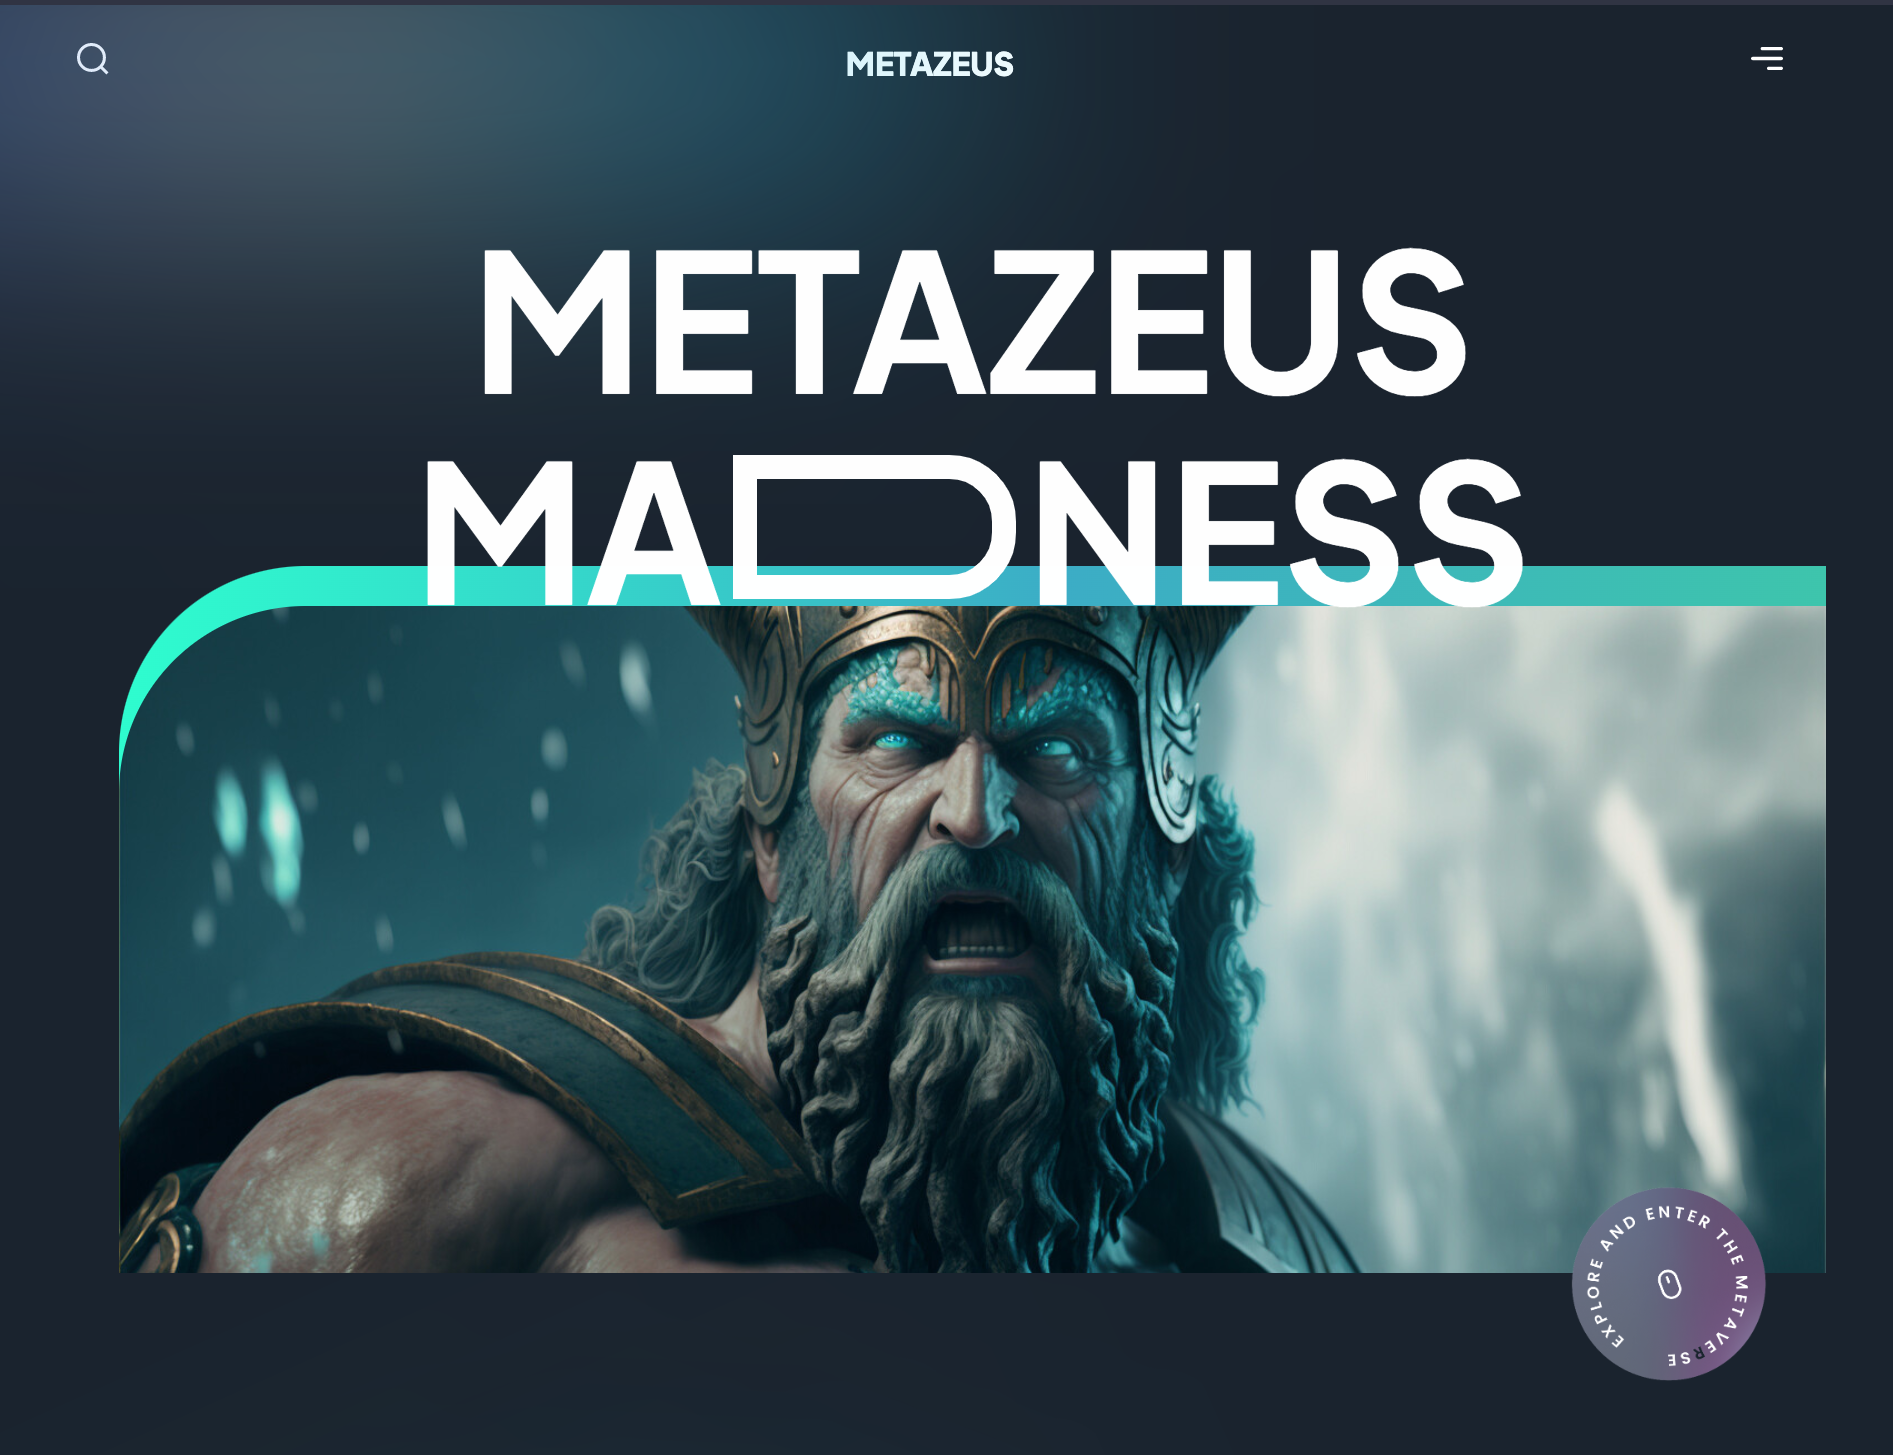
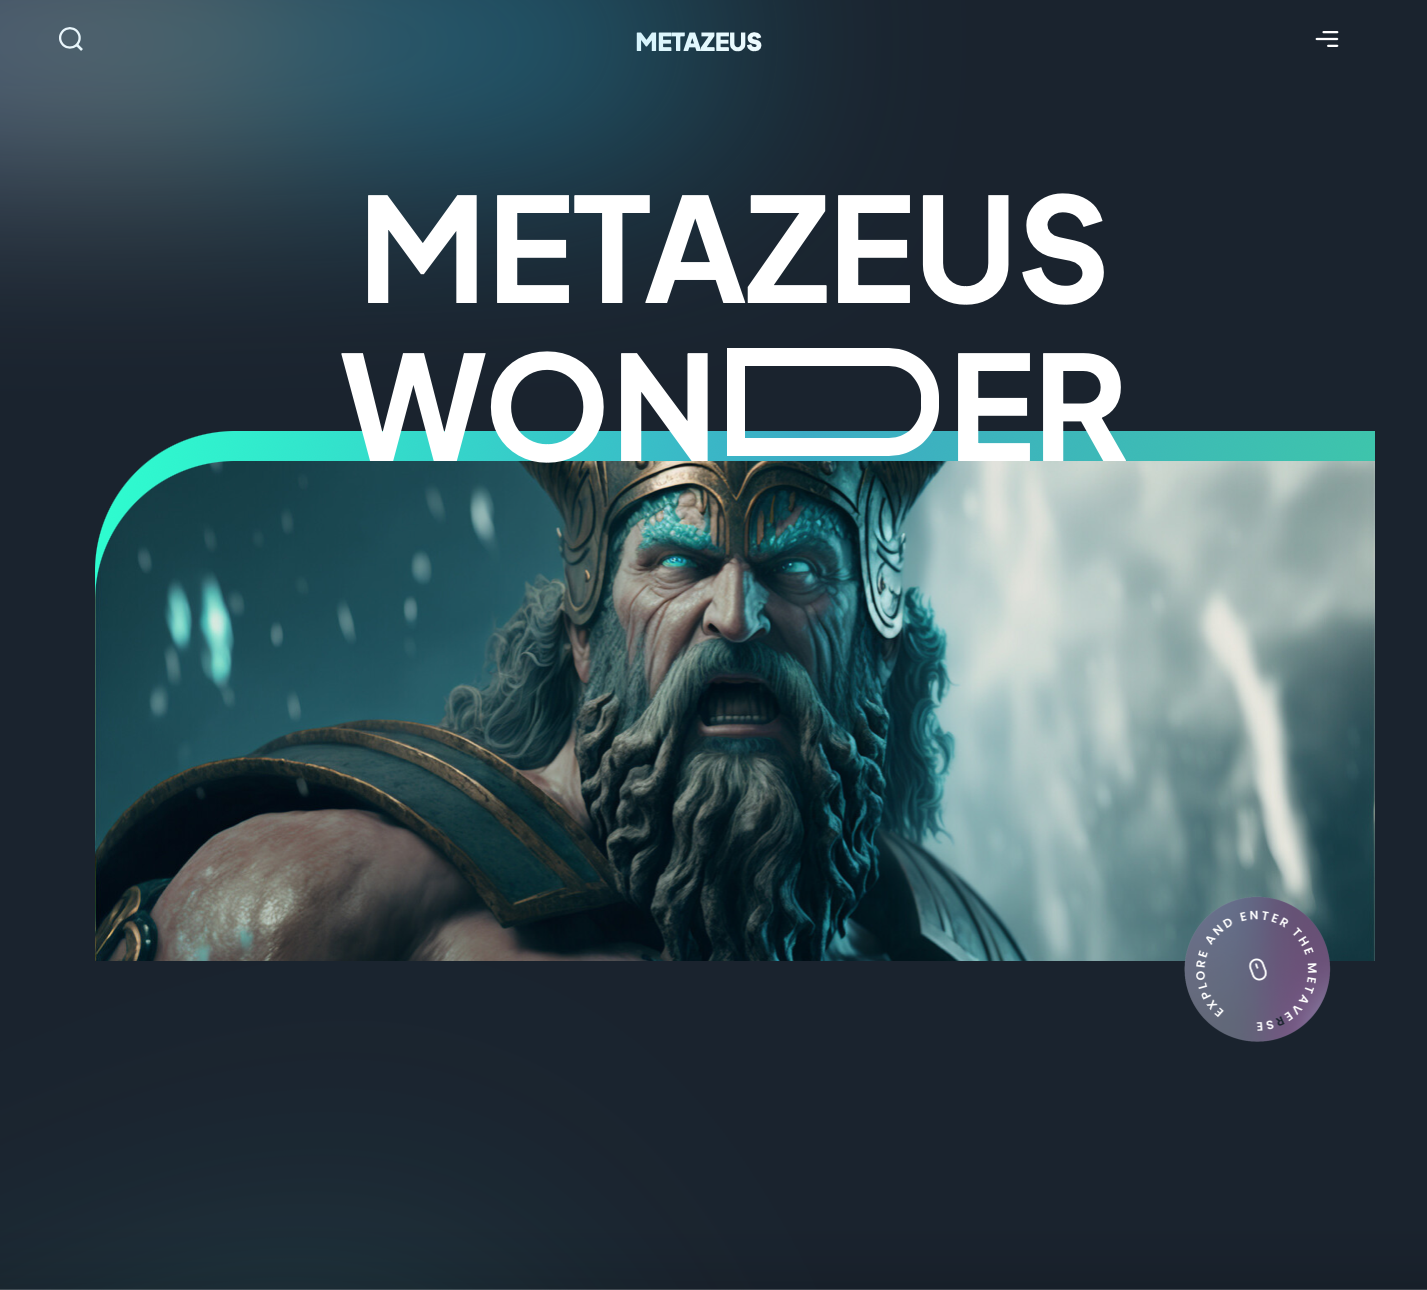
finito

diff --git a/sections/Hero.jsx b/sections/Hero.jsx
@@ -26,10 +26,10 @@ const Hero = () => (
         className="flex flex-row justify-center items-center z-10"
         >
           <h1 className={styles.heroHeading}>
-          MA
+          WON
           </h1>
           <div className={styles.heroDText} />
-          <h1 className={styles.heroHeading}>NESS</h1>
+          <h1 className={styles.heroHeading}>ER</h1>
         </motion.div>
 
         <motion.div

diff --git a/next.config.js b/next.config.js
@@ -1,7 +1,7 @@
 /** @type {import('next').NextConfig} */
 const nextConfig = {
   experimental: {
-    appDir: false,
+    appDir: true,
   },
   eslint: {
     // Warning: This allows production builds to successfully complete even if
